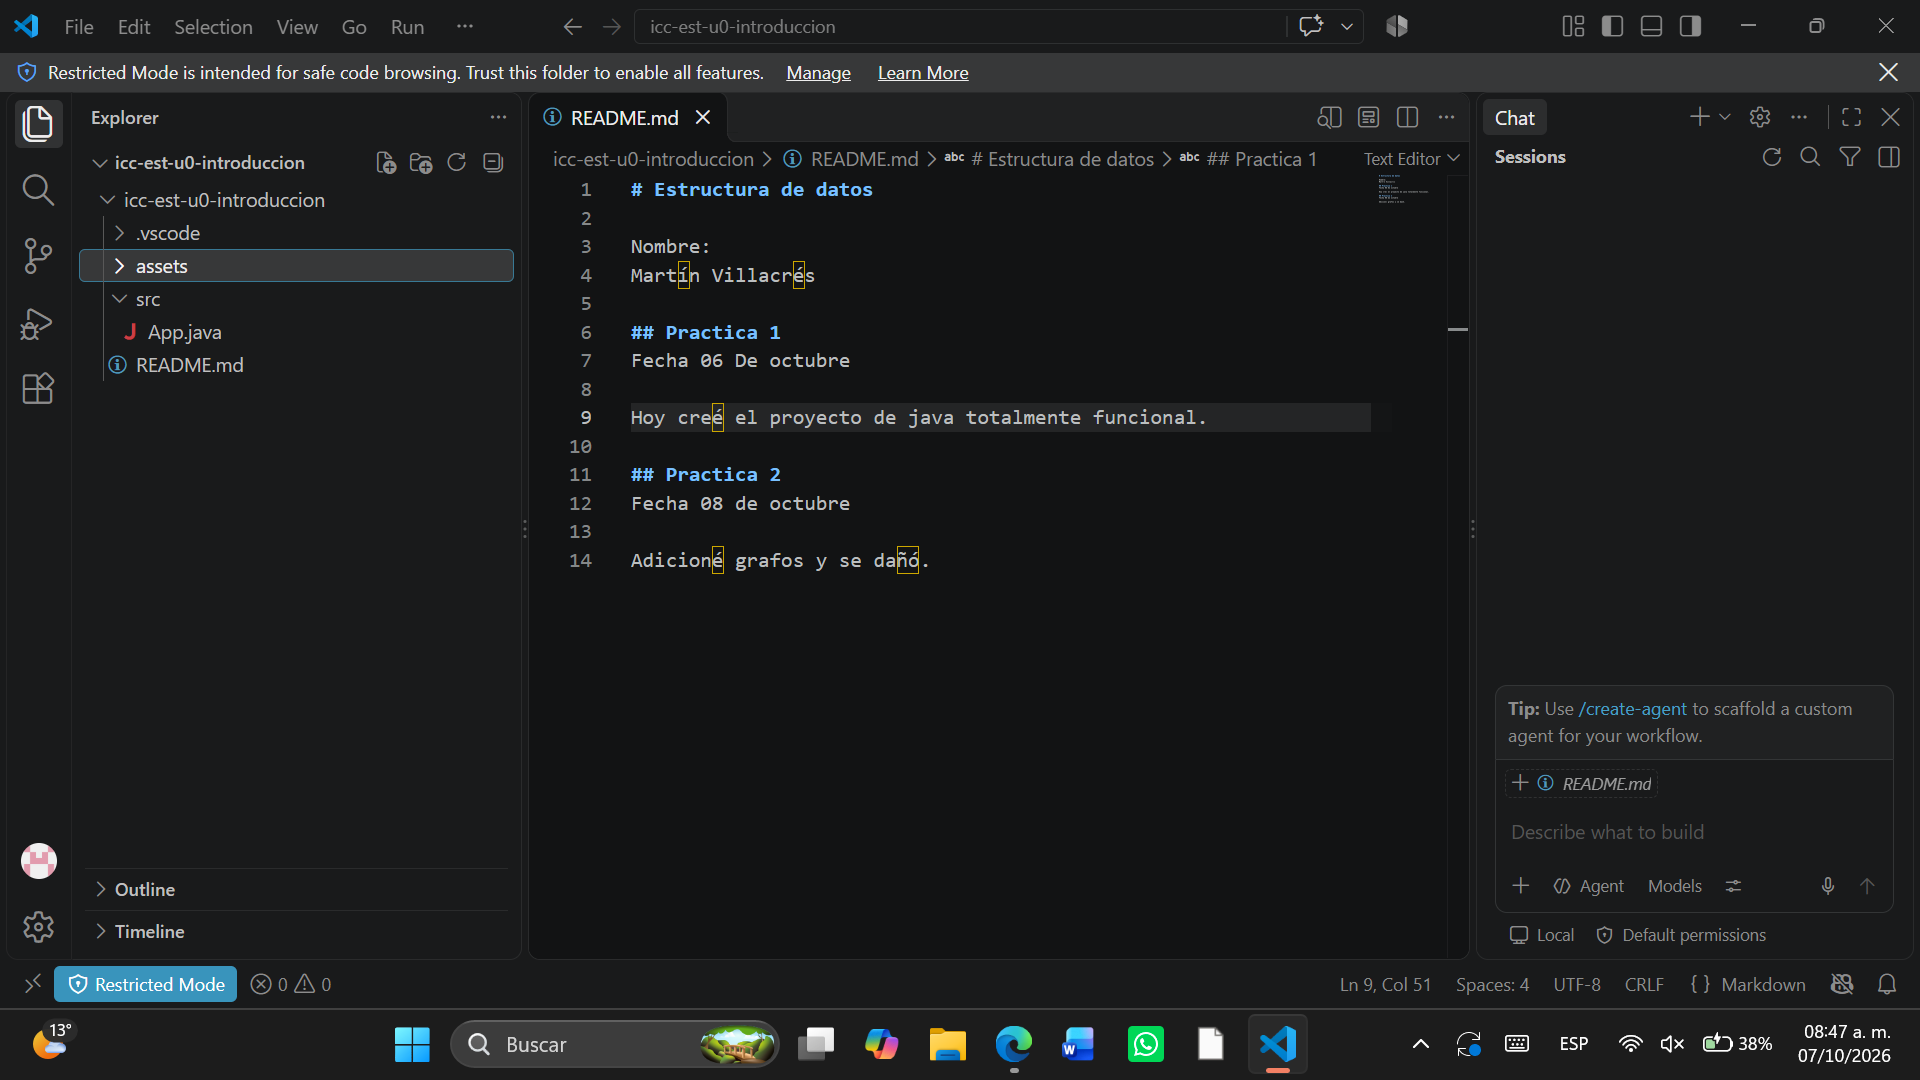
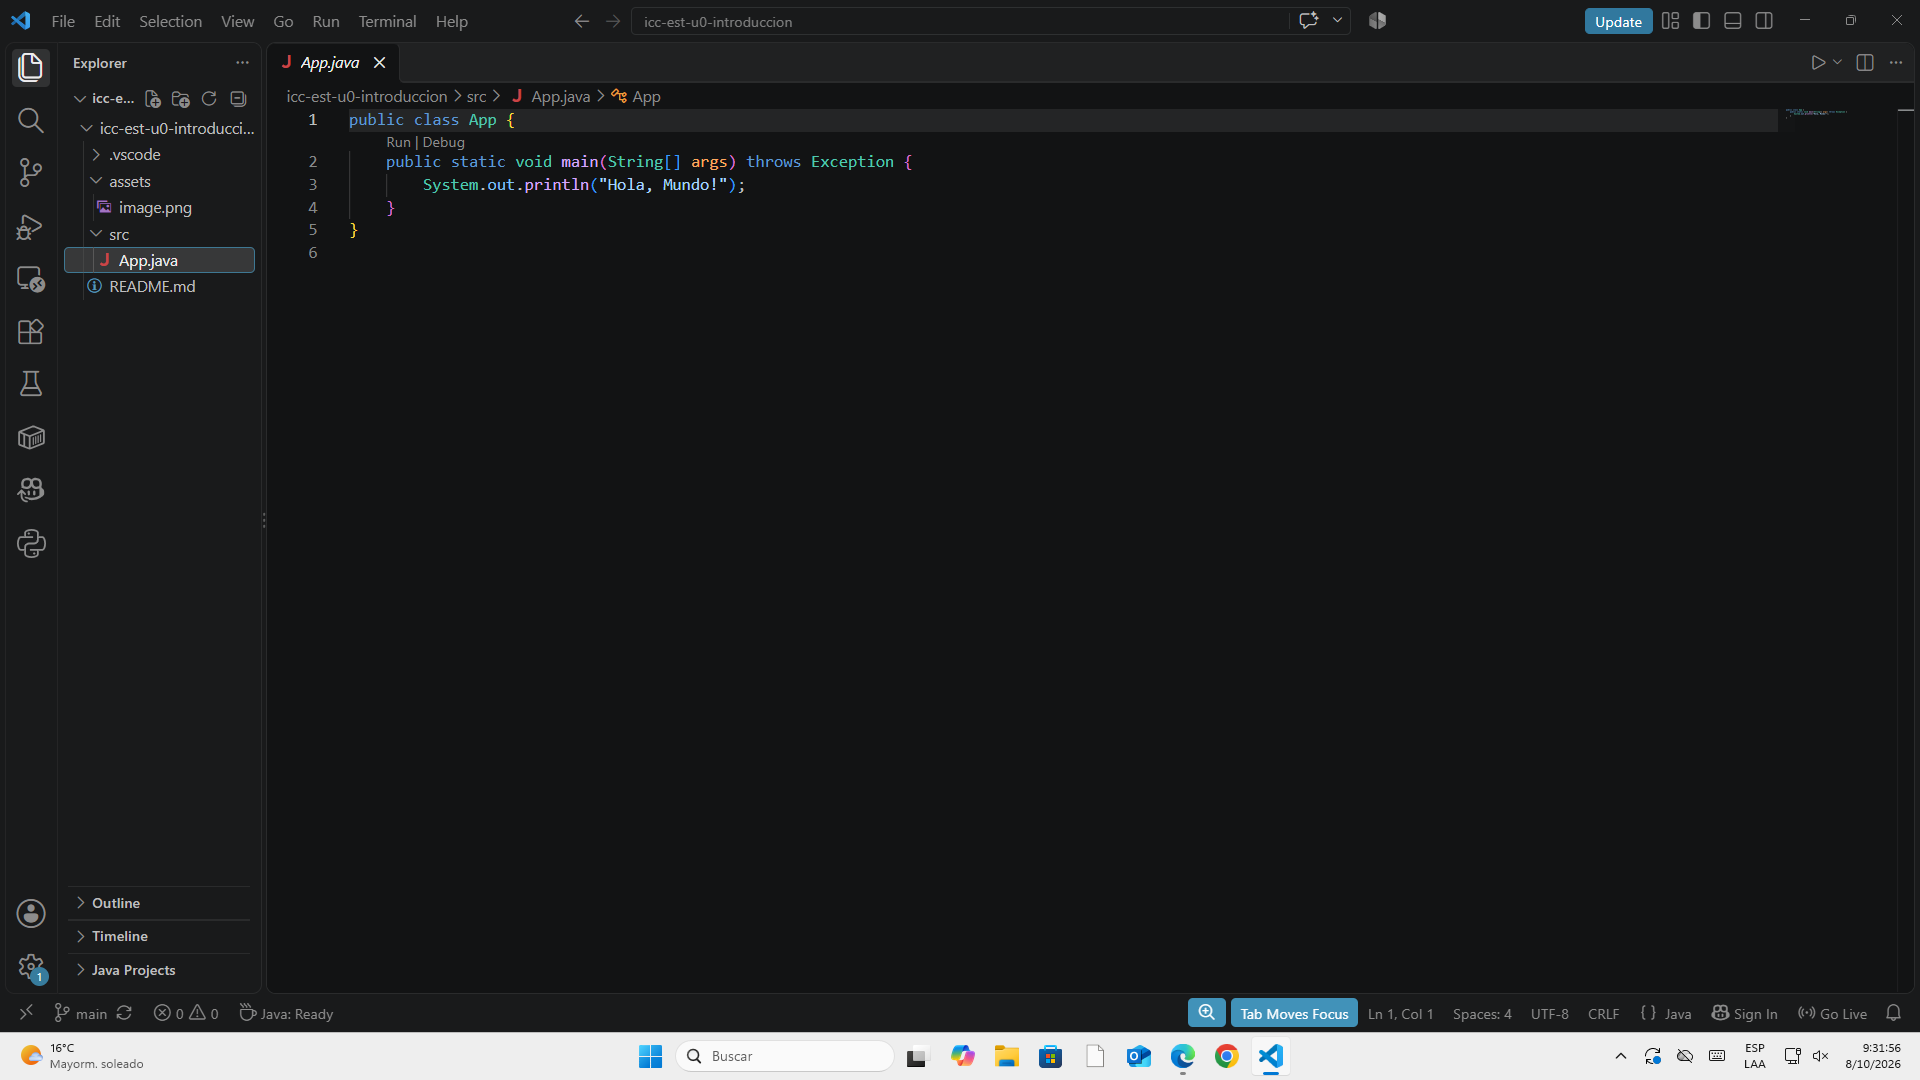
Metodo

diff --git a/icc-est-u0-introduccion/src/App.java b/icc-est-u0-introduccion/src/App.java
@@ -1,5 +1,14 @@
 public class App {
     public static void main(String[] args) throws Exception {
-        System.out.println("Hola, Mundo!");
+        int x = 6;
+        int y = 3;
+        int z = x + y;
+        runCalculator(z);
+    }
+
+    private static void runCalculator(int z) {
+        for(int i = 0; i < z; i++){
+            System.out.println("Calculating: " + i);
+        }
     }
 }

diff --git a/icc-est-u0-introduccion/README.md b/icc-est-u0-introduccion/README.md
@@ -11,6 +11,6 @@ Hoy creé el proyecto de java totalmente funcional.
 ## Practica 2
 Fecha 08 de octubre
 
-Adicioné grafos y se dañó.
+Adicioné a-star y se dañó.
 
 ![alt text](assets/image.png)
